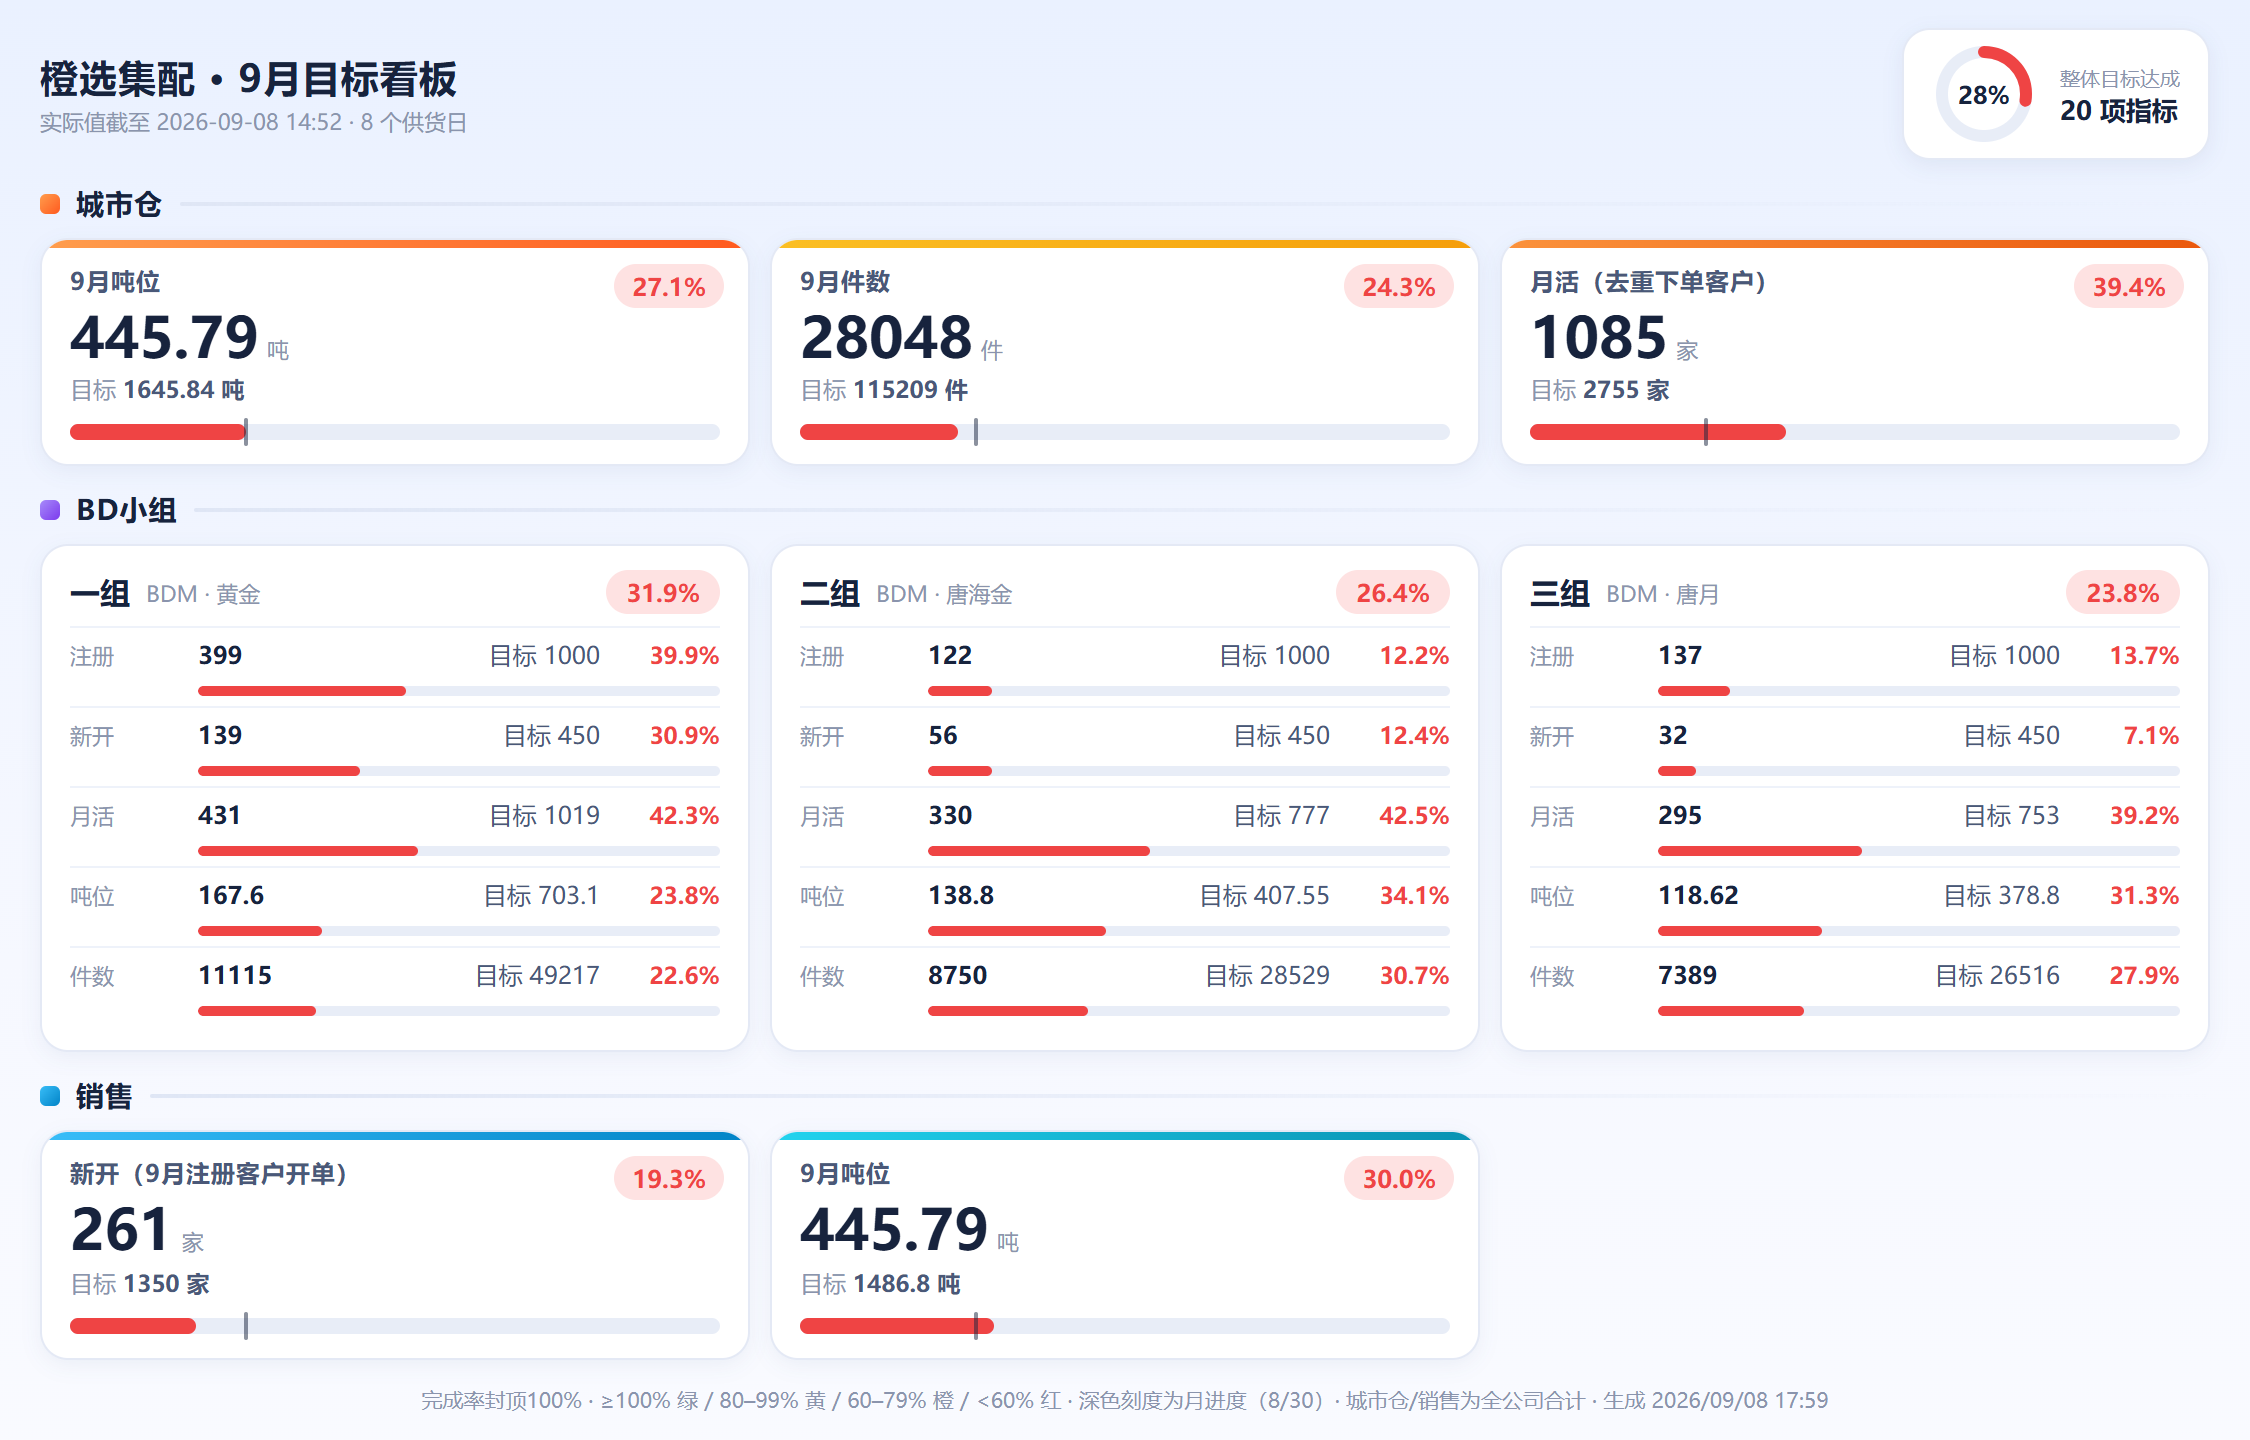
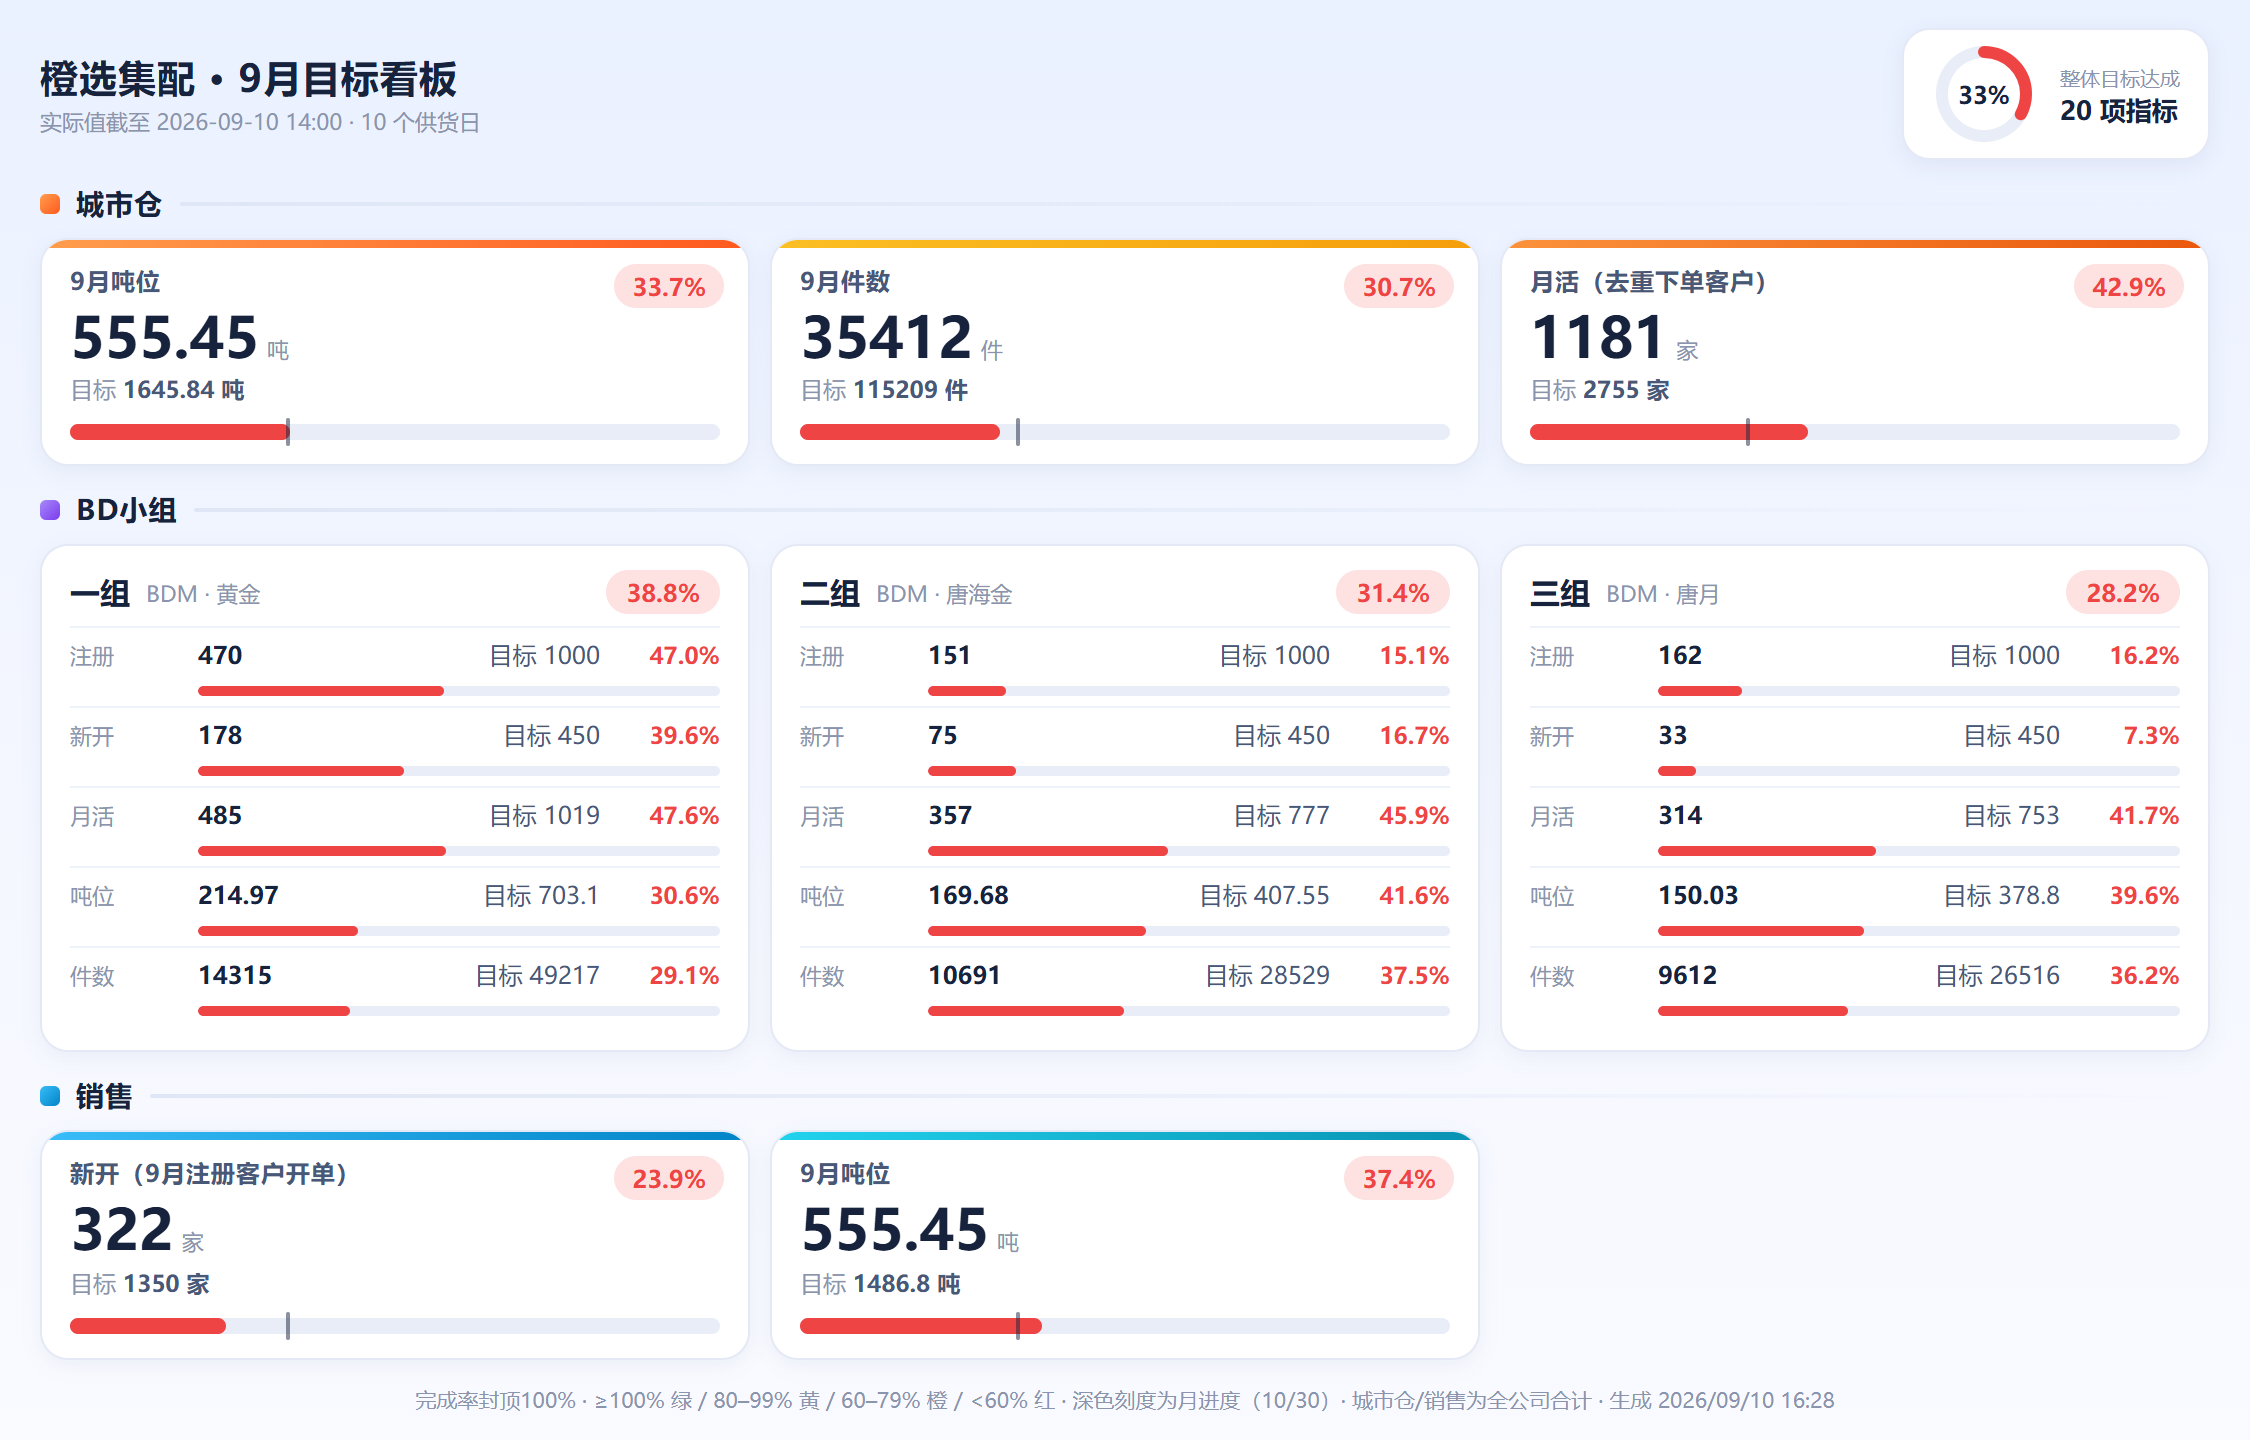
自动更新月目标看板

diff --git a/mb_board.html b/mb_board.html
@@ -116,7 +116,7 @@ const BD_T={
 const SAL_T={nw:1350,ton:1486.8};
 
 /* ===== 实际值（由 统计实际值.py 生成嵌入）===== */
-const EMBED={"city":{"遂宁仓":{"ton":33.62,"pcs":2400,"mau":59,"dau":21.5},"合川仓":{"ton":20.98,"pcs":1491,"mau":50,"dau":22.2},"开州仓":{"ton":41.84,"pcs":2872,"mau":70,"dau":30.0},"涪陵仓":{"ton":14.74,"pcs":946,"mau":41,"dau":14.9},"巴中仓":{"ton":53.8,"pcs":3030,"mau":60,"dau":36.1},"黔江仓":{"ton":11.92,"pcs":895,"mau":42,"dau":20.9},"达州仓":{"ton":23.14,"pcs":1643,"mau":71,"dau":31.9},"渠县仓":{"ton":21.73,"pcs":1281,"mau":63,"dau":26.6},"忠县仓":{"ton":11.37,"pcs":706,"mau":43,"dau":18.1},"云阳仓":{"ton":6.91,"pcs":476,"mau":38,"dau":9.1},"彭水仓":{"ton":29.79,"pcs":1937,"mau":38,"dau":22.9},"梁平仓":{"ton":6.94,"pcs":464,"mau":42,"dau":10.0},"广安仓":{"ton":33.65,"pcs":1402,"mau":48,"dau":16.4},"城口仓":{"ton":8.52,"pcs":636,"mau":35,"dau":13.0},"巫溪仓":{"ton":2.15,"pcs":141,"mau":28,"dau":3.5},"大足仓":{"ton":13.47,"pcs":798,"mau":18,"dau":10.4},"仪陇仓":{"ton":0.74,"pcs":59,"mau":11,"dau":1.4},"奉节仓":{"ton":13.67,"pcs":830,"mau":55,"dau":16.5},"宣汉仓":{"ton":11.4,"pcs":995,"mau":24,"dau":11.8},"万州仓":{"ton":15.89,"pcs":1075,"mau":46,"dau":18.8},"南充仓":{"ton":25.55,"pcs":1661,"mau":99,"dau":19.4},"开江仓":{"ton":2.93,"pcs":200,"mau":18,"dau":6.9},"大竹仓":{"ton":7.67,"pcs":459,"mau":29,"dau":7.9},"铜梁仓":{"ton":9.02,"pcs":642,"mau":3,"dau":1.5},"双福自提仓":{"ton":6.69,"pcs":137,"mau":15,"dau":2.2},"巫山仓":{"ton":4.34,"pcs":274,"mau":36,"dau":8.1},"万源配送仓":{"ton":0.02,"pcs":8,"mau":1,"dau":0.1},"广安岳池仓":{"ton":0.02,"pcs":1,"mau":1,"dau":0.1},"南川仓":{"ton":13.3,"pcs":589,"mau":1,"dau":0.1}},"bd":{"一组":{"reg":399,"nw":139,"mau":431,"dau":156.6,"ton":167.6,"pcs":11115},"二组":{"reg":122,"nw":56,"mau":330,"dau":139.9,"ton":138.8,"pcs":8750},"三组":{"reg":137,"nw":32,"mau":295,"dau":101.8,"ton":118.62,"pcs":7389}},"sal":{"董嘉豪":{"ton":21.0,"dau":12.2,"nw":8},"游宗伟":{"ton":0.4,"dau":1.1,"nw":5},"李顺":{"ton":34.36,"dau":26.6,"nw":15},"蒋宏伟":{"ton":8.23,"dau":13.5,"nw":10},"李彬":{"ton":33.22,"dau":24.5,"nw":8},"龚勇铭":{"ton":23.47,"dau":15.6,"nw":16},"未分配":{"ton":101.2,"dau":53.9,"nw":0},"彭彪":{"ton":12.54,"dau":18.5,"nw":18},"樊强":{"ton":12.31,"dau":12.6,"nw":6},"邹叶华":{"ton":10.38,"dau":12.5,"nw":3},"雷璐莲":{"ton":5.74,"dau":11.0,"nw":0},"魏大尉":{"ton":22.57,"dau":18.6,"nw":7},"秦双林":{"ton":9.92,"dau":15.2,"nw":15},"徐杰":{"ton":9.84,"dau":14.5,"nw":8},"吴波":{"ton":0.94,"dau":1.5,"nw":0},"韦磊":{"ton":15.2,"dau":15.9,"nw":13},"邓富元":{"ton":11.4,"dau":14.0,"nw":9},"刘诗道":{"ton":7.58,"dau":6.6,"nw":1},"段昂":{"ton":9.75,"dau":10.4,"nw":1},"刘艳":{"ton":4.29,"dau":4.8,"nw":6},"杨松":{"ton":17.07,"dau":18.6,"nw":7},"谭东伟":{"ton":3.5,"dau":6.1,"nw":0},"赵帅":{"ton":3.76,"dau":6.1,"nw":2},"林夏":{"ton":3.23,"dau":5.4,"nw":4},"乾坤":{"ton":24.42,"dau":14.9,"nw":13},"张继凯":{"ton":15.95,"dau":23.0,"nw":22},"贺健康":{"ton":12.9,"dau":12.4,"nw":12},"李东泽":{"ton":2.99,"dau":2.4,"nw":1},"谢华驰":{"ton":0.71,"dau":1.8,"nw":9},"陈登辉":{"ton":2.75,"dau":3.5,"nw":0},"陈健":{"ton":2.1,"dau":2.4,"nw":1},"张渝川":{"ton":1.36,"dau":1.8,"nw":6},"王平":{"ton":0.03,"dau":0.1,"nw":1},"姜涛":{"ton":0.1,"dau":0.2,"nw":0},"裴智":{"ton":0.18,"dau":0.1,"nw":0},"张佑银":{"ton":0.24,"dau":0.4,"nw":0},"钟玉山":{"ton":0.06,"dau":0.1,"nw":0},"韩滨澳":{"ton":0.09,"dau":0.1,"nw":0}},"_city_tot":{"ton":445.79,"pcs":28048,"mau":1085},"_sal_tot":{"ton":445.79,"nw":261},"_stamp":"2026/09/08 17:59","_lastpay":"2026-09-08 14:52","_days":8};
+const EMBED={"city":{"宣汉仓":{"ton":13.3,"pcs":1198,"mau":25,"dau":11.6},"合川仓":{"ton":24.89,"pcs":1762,"mau":52,"dau":21.5},"万州仓":{"ton":19.42,"pcs":1322,"mau":46,"dau":18.7},"梁平仓":{"ton":10.39,"pcs":685,"mau":48,"dau":11.8},"遂宁仓":{"ton":45.42,"pcs":3329,"mau":60,"dau":22.4},"渠县仓":{"ton":25.42,"pcs":1487,"mau":66,"dau":26.0},"开州仓":{"ton":52.57,"pcs":3633,"mau":79,"dau":30.6},"巴中仓":{"ton":66.19,"pcs":3721,"mau":62,"dau":35.4},"广安仓":{"ton":38.7,"pcs":1682,"mau":51,"dau":15.8},"忠县仓":{"ton":14.38,"pcs":899,"mau":46,"dau":17.8},"黔江仓":{"ton":15.27,"pcs":1123,"mau":44,"dau":20.3},"南充仓":{"ton":37.84,"pcs":2439,"mau":111,"dau":21.6},"彭水仓":{"ton":36.66,"pcs":2377,"mau":38,"dau":22.5},"涪陵仓":{"ton":18.18,"pcs":1151,"mau":44,"dau":14.9},"达州仓":{"ton":29.16,"pcs":2070,"mau":72,"dau":31.2},"大竹仓":{"ton":9.14,"pcs":566,"mau":33,"dau":8.0},"云阳仓":{"ton":9.67,"pcs":668,"mau":40,"dau":9.9},"城口仓":{"ton":12.08,"pcs":898,"mau":38,"dau":13.2},"仪陇仓":{"ton":2.21,"pcs":179,"mau":27,"dau":3.1},"大足仓":{"ton":16.85,"pcs":1019,"mau":19,"dau":10.4},"奉节仓":{"ton":15.07,"pcs":915,"mau":56,"dau":14.8},"铜梁仓":{"ton":12.34,"pcs":869,"mau":3,"dau":1.5},"巫溪仓":{"ton":2.98,"pcs":211,"mau":49,"dau":5.5},"开江仓":{"ton":2.93,"pcs":200,"mau":18,"dau":5.5},"双福自提仓":{"ton":6.69,"pcs":137,"mau":15,"dau":1.8},"巫山仓":{"ton":4.34,"pcs":274,"mau":36,"dau":6.5},"万源配送仓":{"ton":0.02,"pcs":8,"mau":1,"dau":0.1},"广安岳池仓":{"ton":0.02,"pcs":1,"mau":1,"dau":0.1},"南川仓":{"ton":13.3,"pcs":589,"mau":1,"dau":0.1}},"bd":{"一组":{"reg":470,"nw":178,"mau":485,"dau":159.0,"ton":214.97,"pcs":14315},"二组":{"reg":151,"nw":75,"mau":357,"dau":136.2,"ton":169.68,"pcs":10691},"三组":{"reg":162,"nw":33,"mau":314,"dau":104.2,"ton":150.03,"pcs":9612}},"sal":{"杨松":{"ton":22.14,"dau":18.1,"nw":8},"乾坤":{"ton":29.35,"dau":15.2,"nw":18},"张继凯":{"ton":20.5,"dau":23.1,"nw":27},"赵帅":{"ton":5.31,"dau":6.8,"nw":2},"李彬":{"ton":43.69,"dau":24.4,"nw":8},"邓富元":{"ton":14.62,"dau":14.3,"nw":13},"龚勇铭":{"ton":29.98,"dau":15.7,"nw":20},"李顺":{"ton":44.93,"dau":26.4,"nw":21},"韦磊":{"ton":19.54,"dau":16.4,"nw":14},"未分配":{"ton":118.73,"dau":52.9,"nw":0},"董嘉豪":{"ton":26.7,"dau":12.6,"nw":8},"邹叶华":{"ton":11.8,"dau":12.3,"nw":7},"魏大尉":{"ton":27.62,"dau":18.6,"nw":8},"樊强":{"ton":14.19,"dau":11.9,"nw":6},"游宗伟":{"ton":1.8,"dau":1.4,"nw":5},"雷璐莲":{"ton":7.26,"dau":10.5,"nw":1},"徐杰":{"ton":12.21,"dau":14.3,"nw":11},"刘诗道":{"ton":10.28,"dau":7.0,"nw":3},"贺健康":{"ton":16.03,"dau":13.0,"nw":16},"彭彪":{"ton":16.64,"dau":19.6,"nw":22},"段昂":{"ton":12.33,"dau":10.4,"nw":1},"蒋宏伟":{"ton":9.76,"dau":12.7,"nw":10},"秦双林":{"ton":12.46,"dau":15.5,"nw":19},"谭东伟":{"ton":4.1,"dau":5.8,"nw":4},"刘艳":{"ton":5.2,"dau":4.7,"nw":8},"林夏":{"ton":4.17,"dau":5.5,"nw":4},"陈登辉":{"ton":3.89,"dau":3.7,"nw":0},"吴波":{"ton":1.03,"dau":1.4,"nw":0},"李东泽":{"ton":3.77,"dau":2.4,"nw":0},"陈健":{"ton":2.41,"dau":2.2,"nw":1},"谢华驰":{"ton":0.77,"dau":1.7,"nw":12},"张渝川":{"ton":1.41,"dau":1.7,"nw":7},"王平":{"ton":0.08,"dau":0.2,"nw":2},"张建峰":{"ton":0.11,"dau":0.1,"nw":0},"姜涛":{"ton":0.1,"dau":0.2,"nw":0},"裴智":{"ton":0.18,"dau":0.1,"nw":0},"张佑银":{"ton":0.24,"dau":0.3,"nw":0},"钟玉山":{"ton":0.06,"dau":0.1,"nw":0},"韩滨澳":{"ton":0.09,"dau":0.1,"nw":0}},"_city_tot":{"ton":555.45,"pcs":35412,"mau":1181},"_sal_tot":{"ton":555.45,"nw":322},"_stamp":"2026/09/10 16:28","_lastpay":"2026-09-10 14:00","_days":10};
 
 /* ============ 工具 ============ */
 const num=(v,d=0)=>v==null?"-":Number(v).toFixed(d).replace(/\.0+$/,"").replace(/(\.\d*?)0+$/,"$1");
